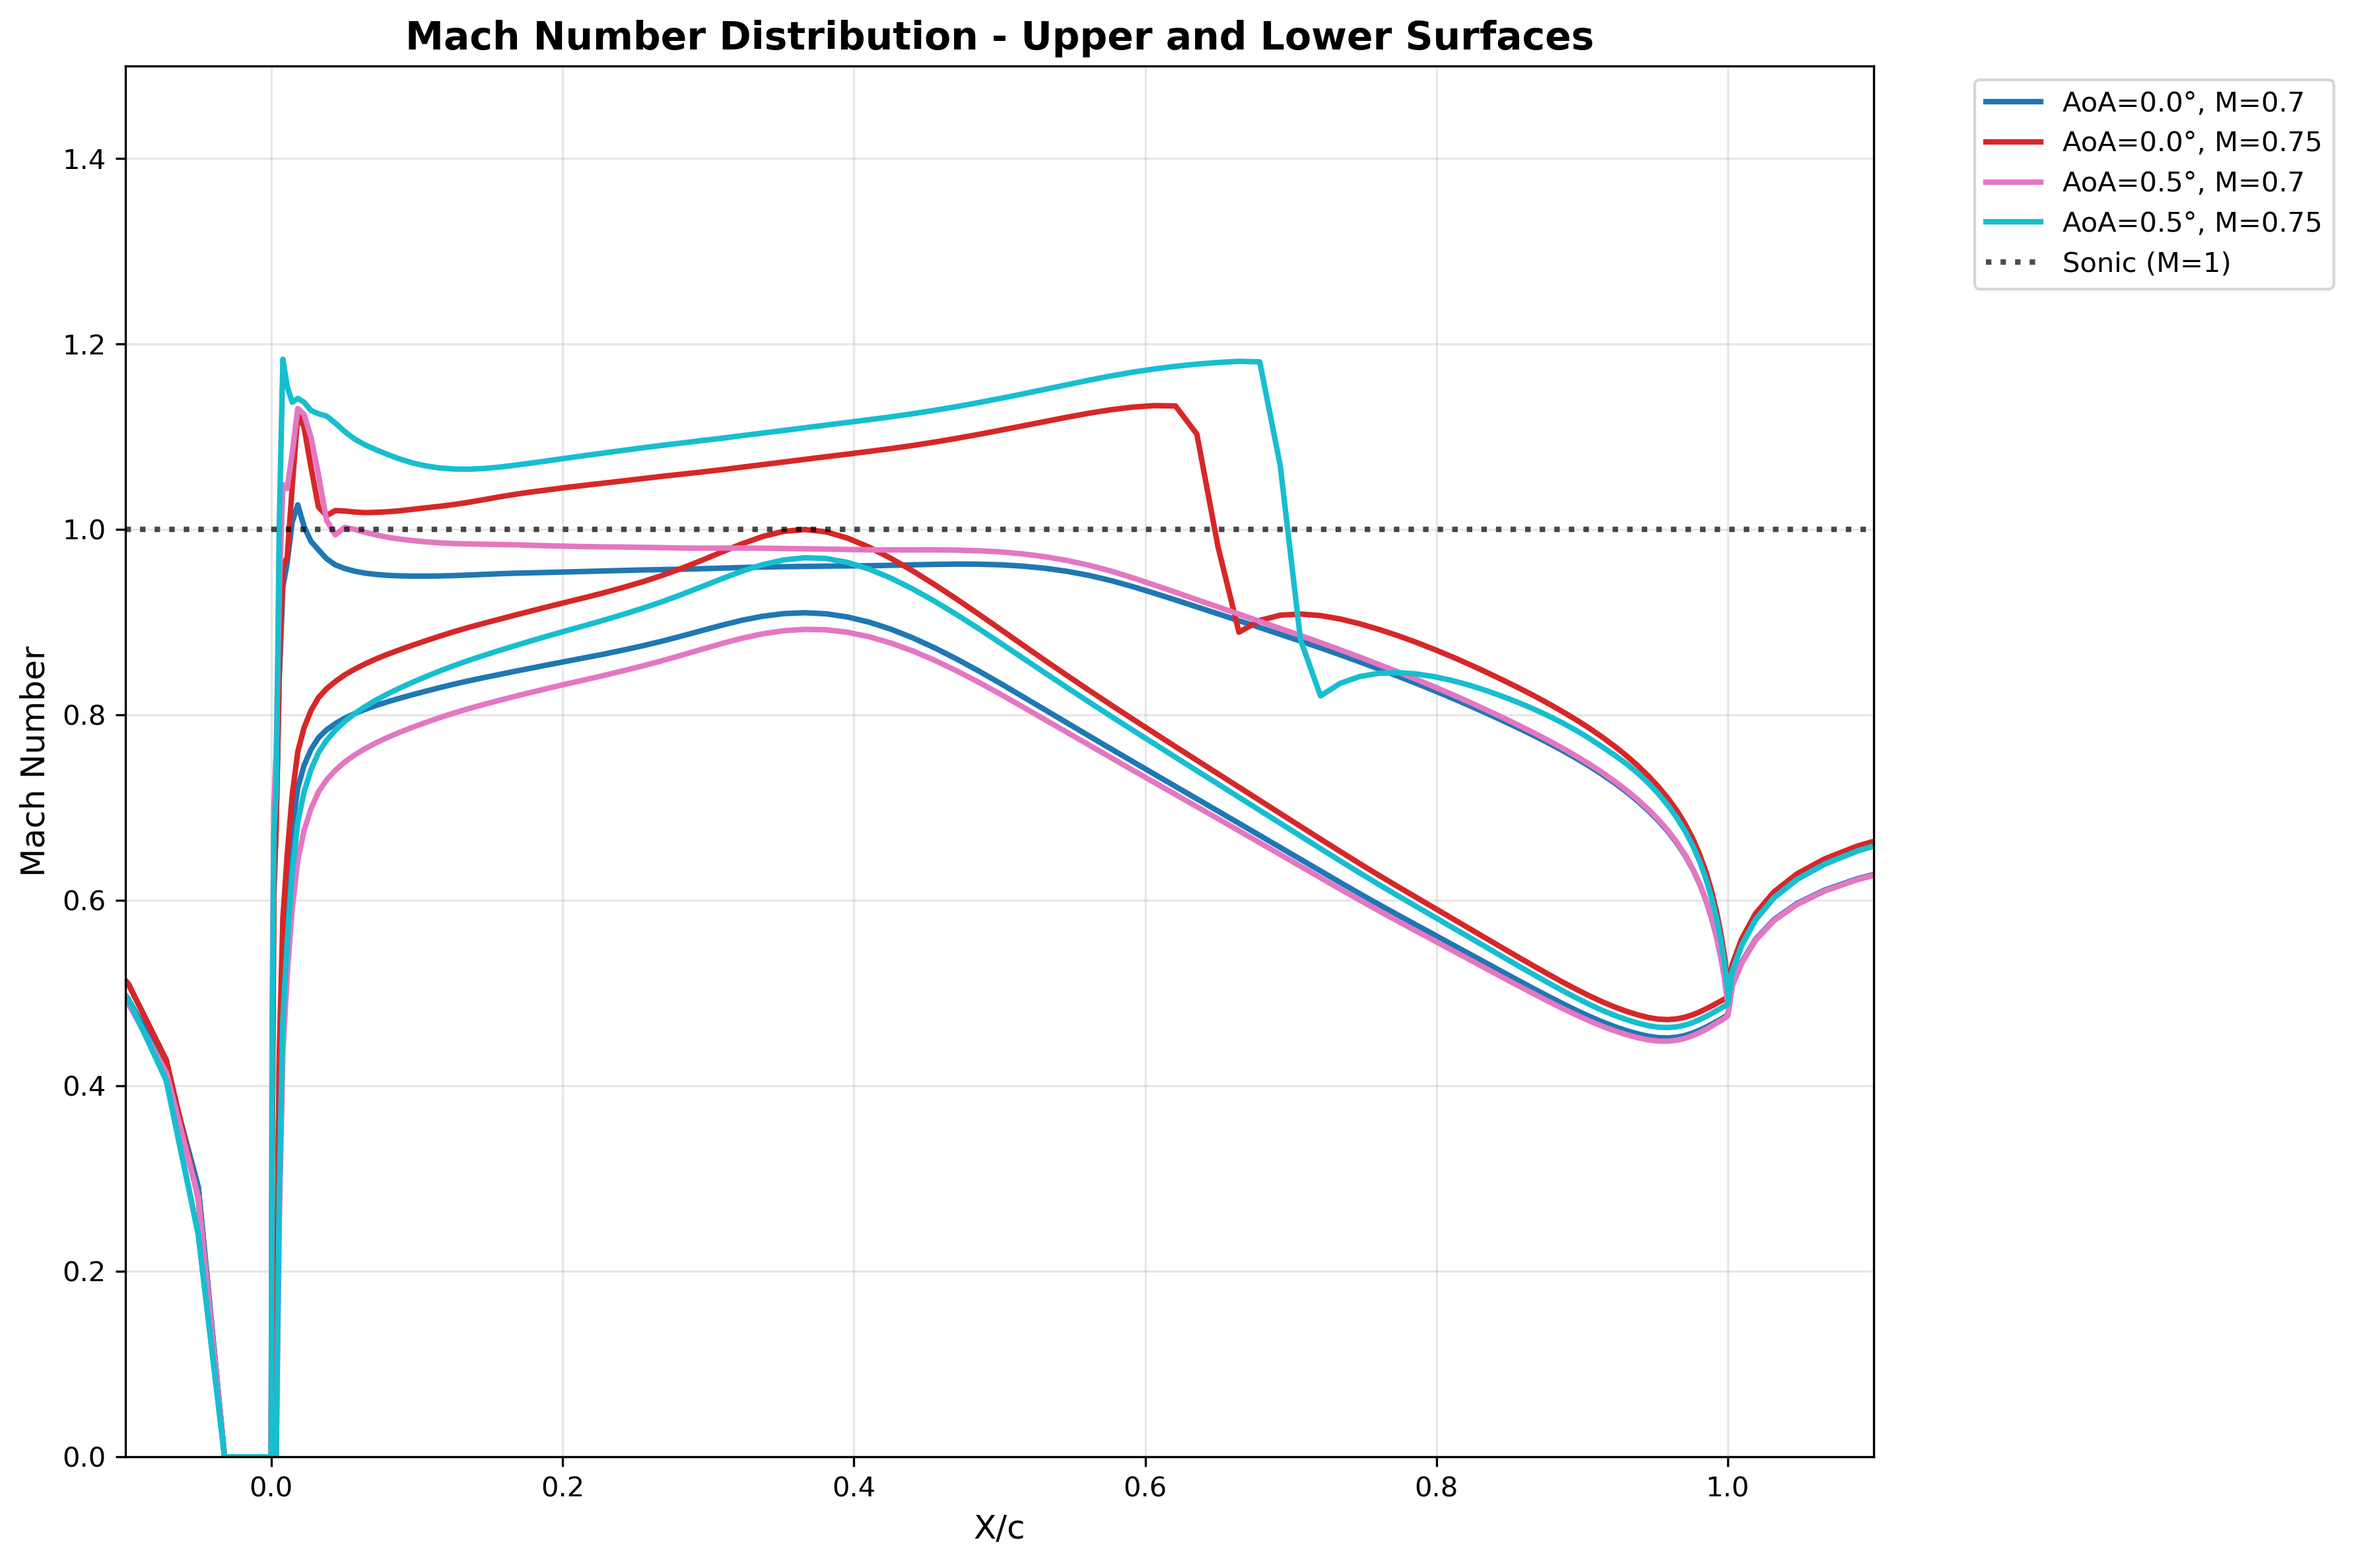
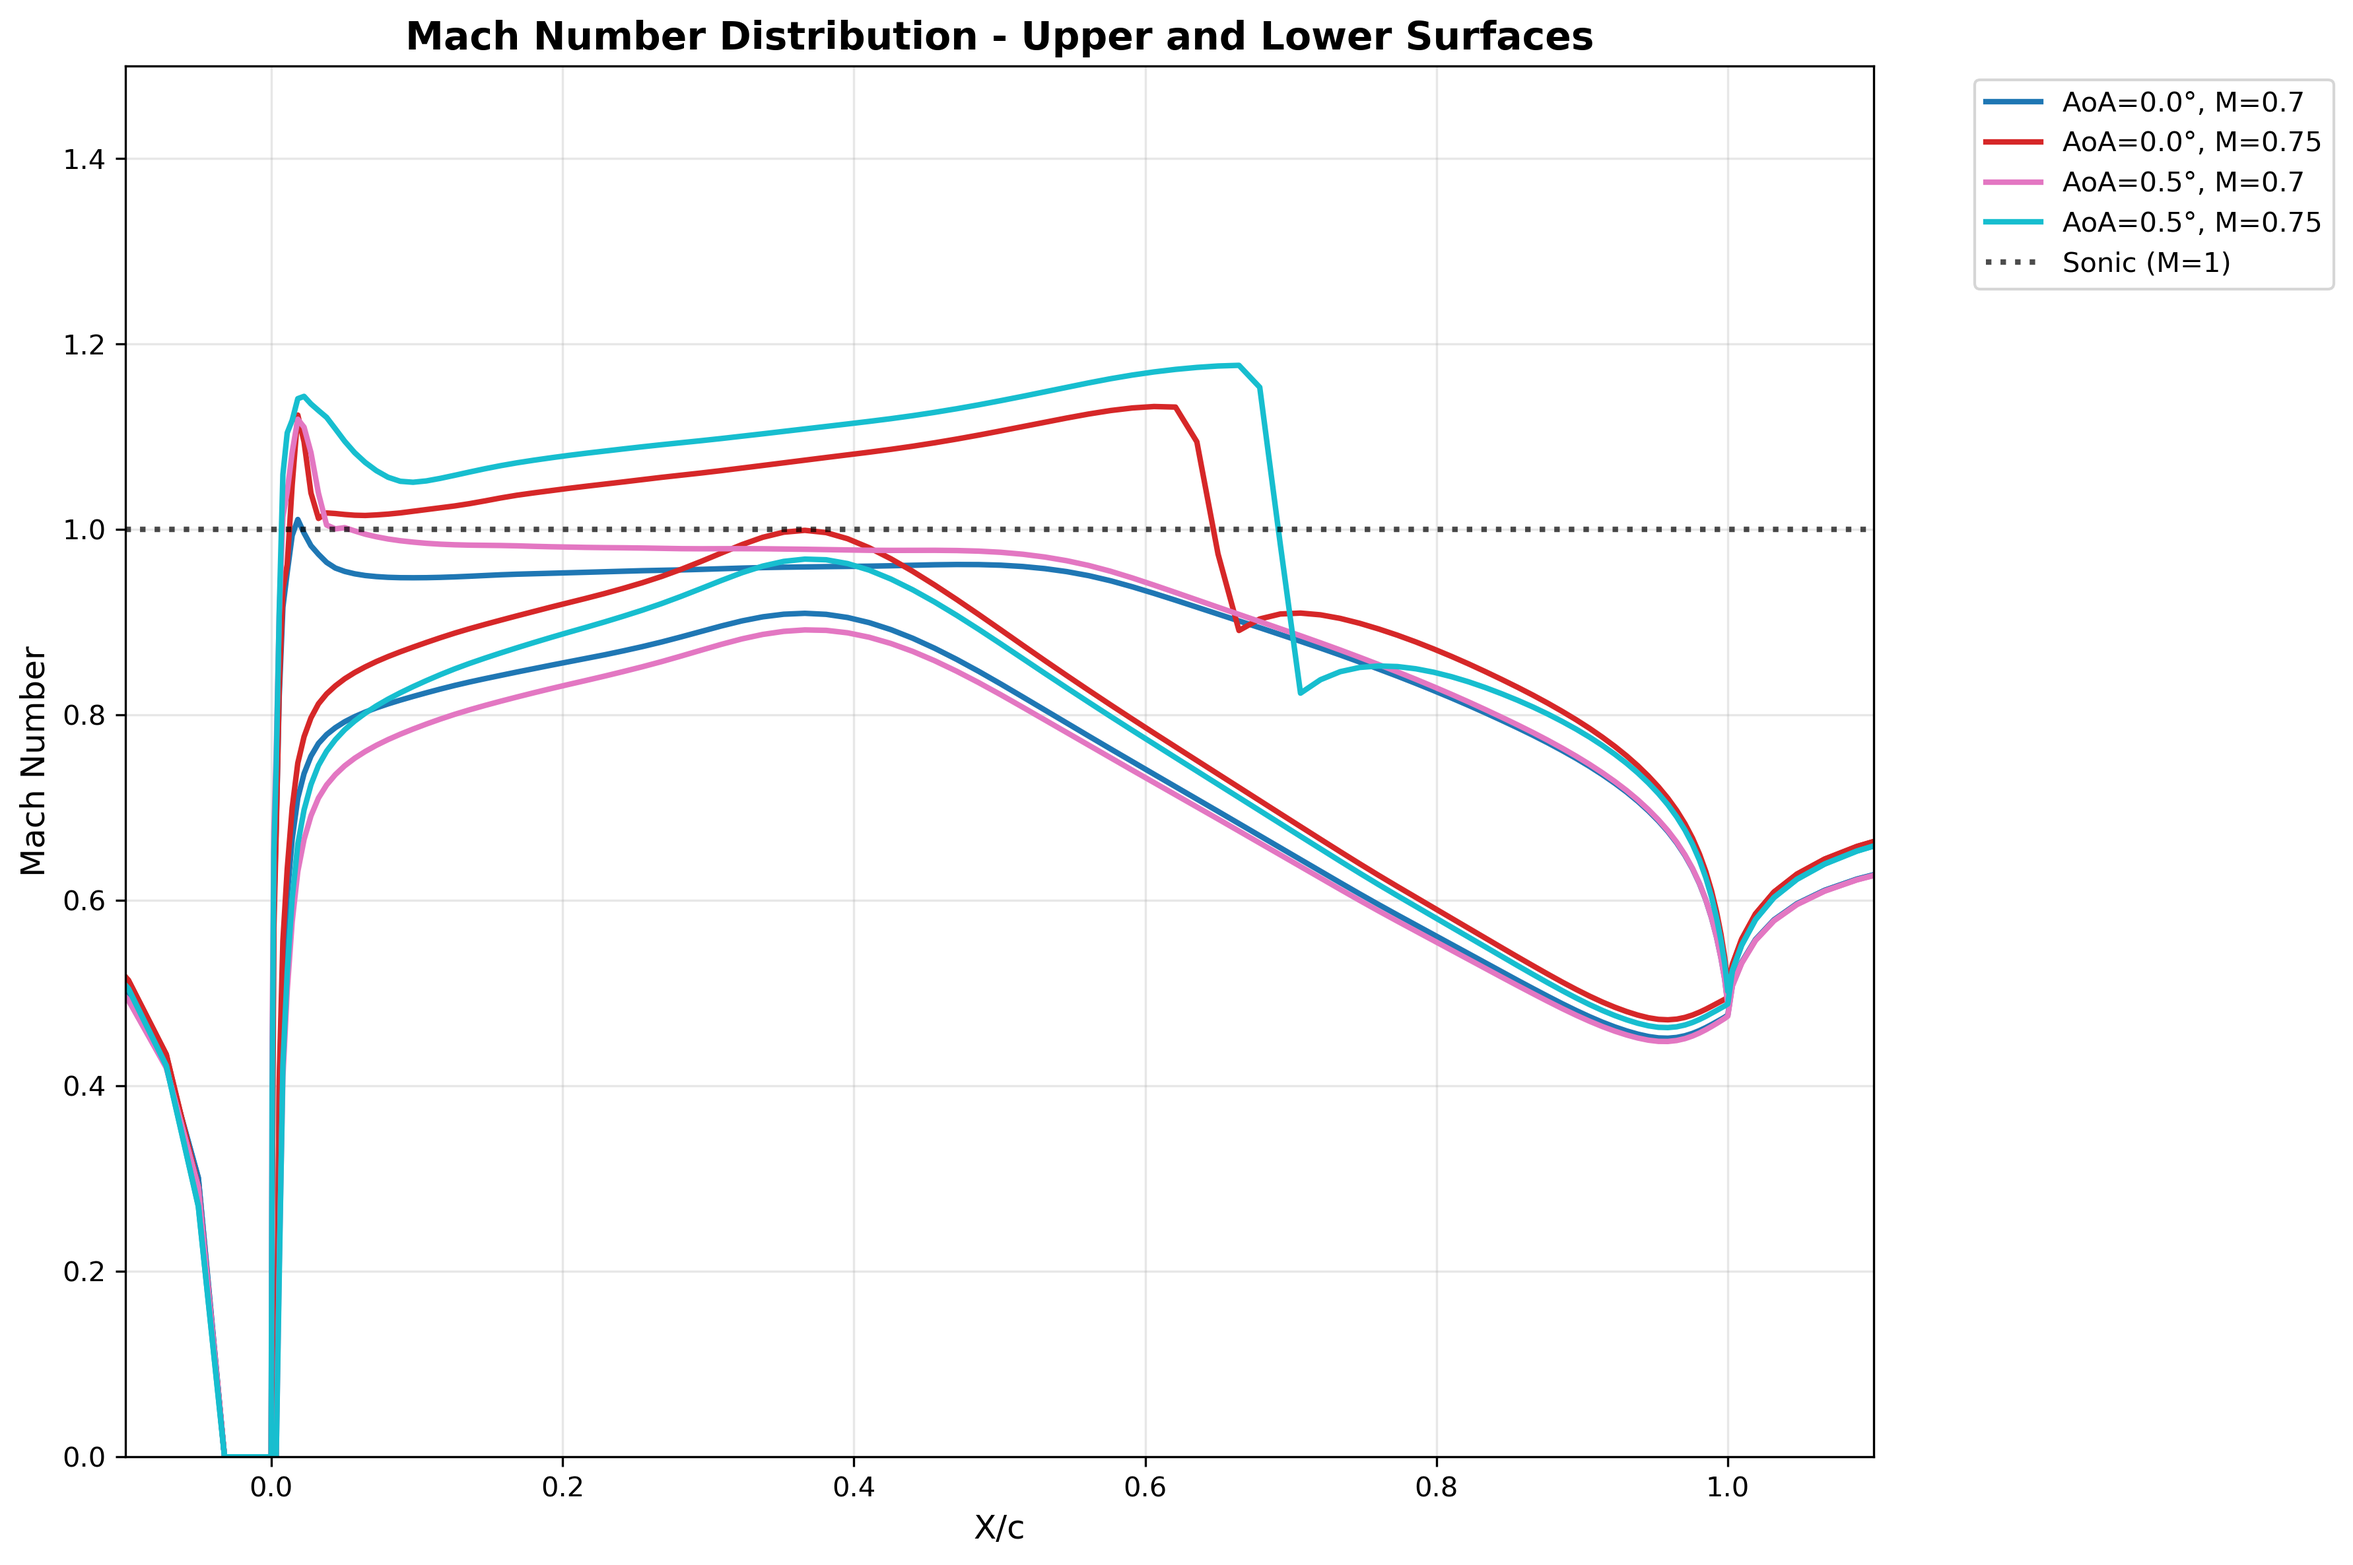
update results

diff --git a/example/rae2822_ibl/run_pytsfoil.py b/example/rae2822_ibl/run_pytsfoil.py
@@ -26,8 +26,6 @@ import matplotlib.patches as mpatches
 
 path      = os.path.abspath(os.path.dirname(__file__))
 path_root = os.path.abspath(os.path.join(path, '..', '..'))
-path_figs = os.path.join(path, 'figures')
-os.makedirs(path_figs, exist_ok=True)
 sys.path.insert(0, path_root)
 
 from pytsfoil import PyTSFoil, IBL
